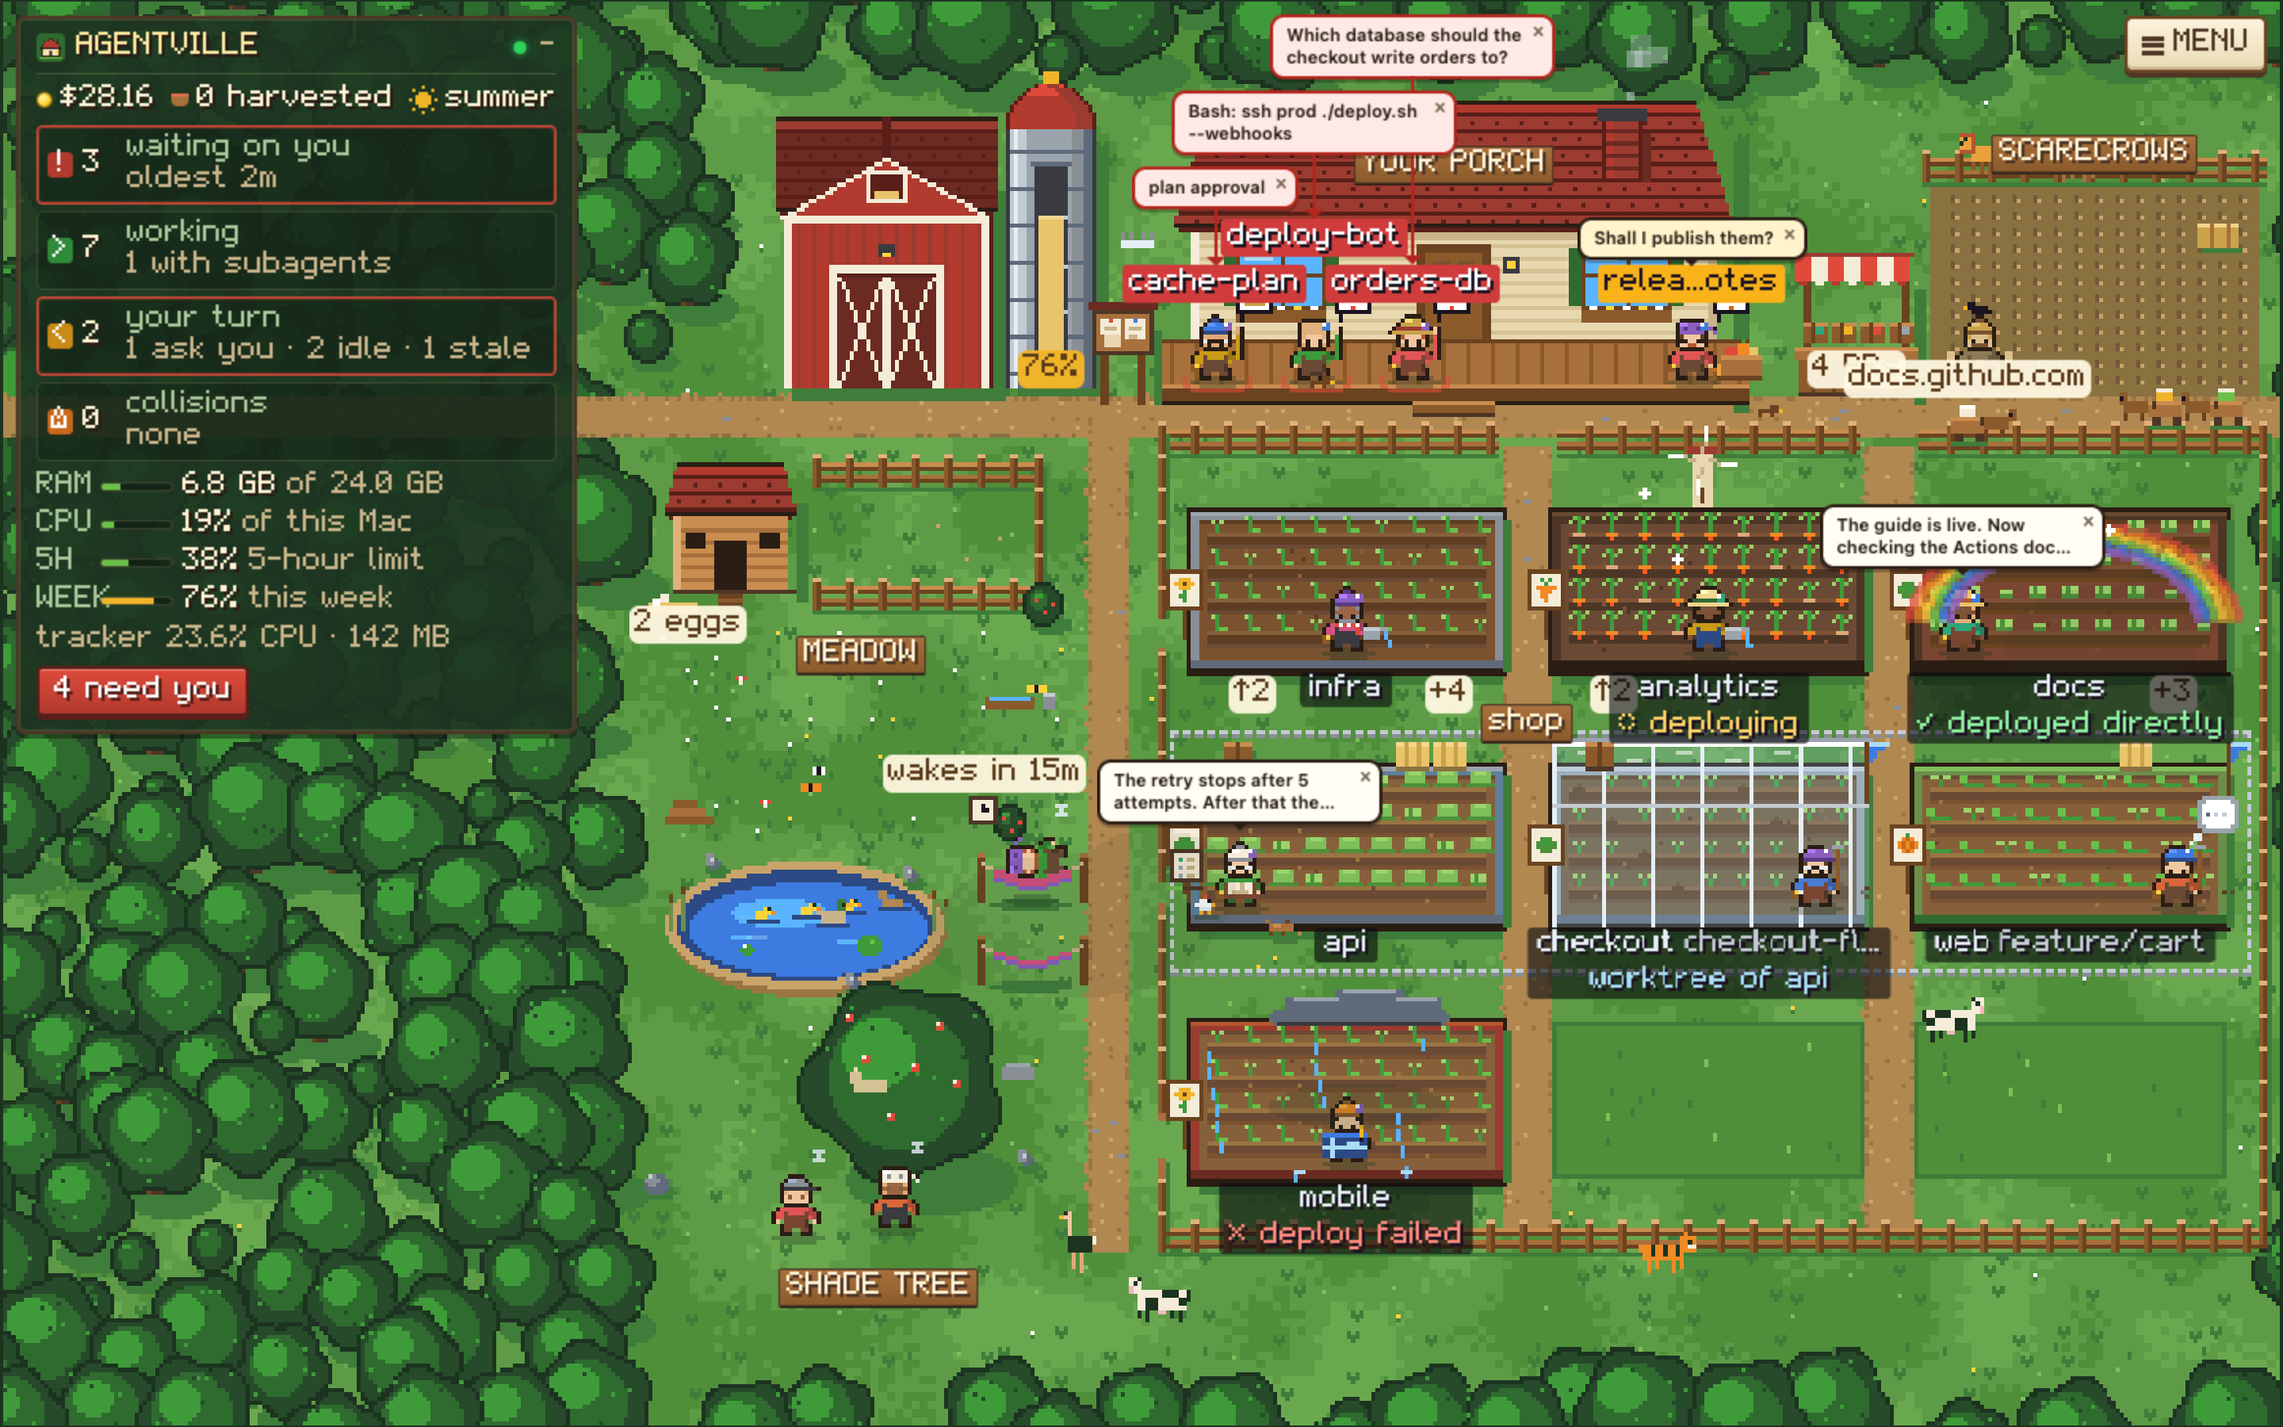
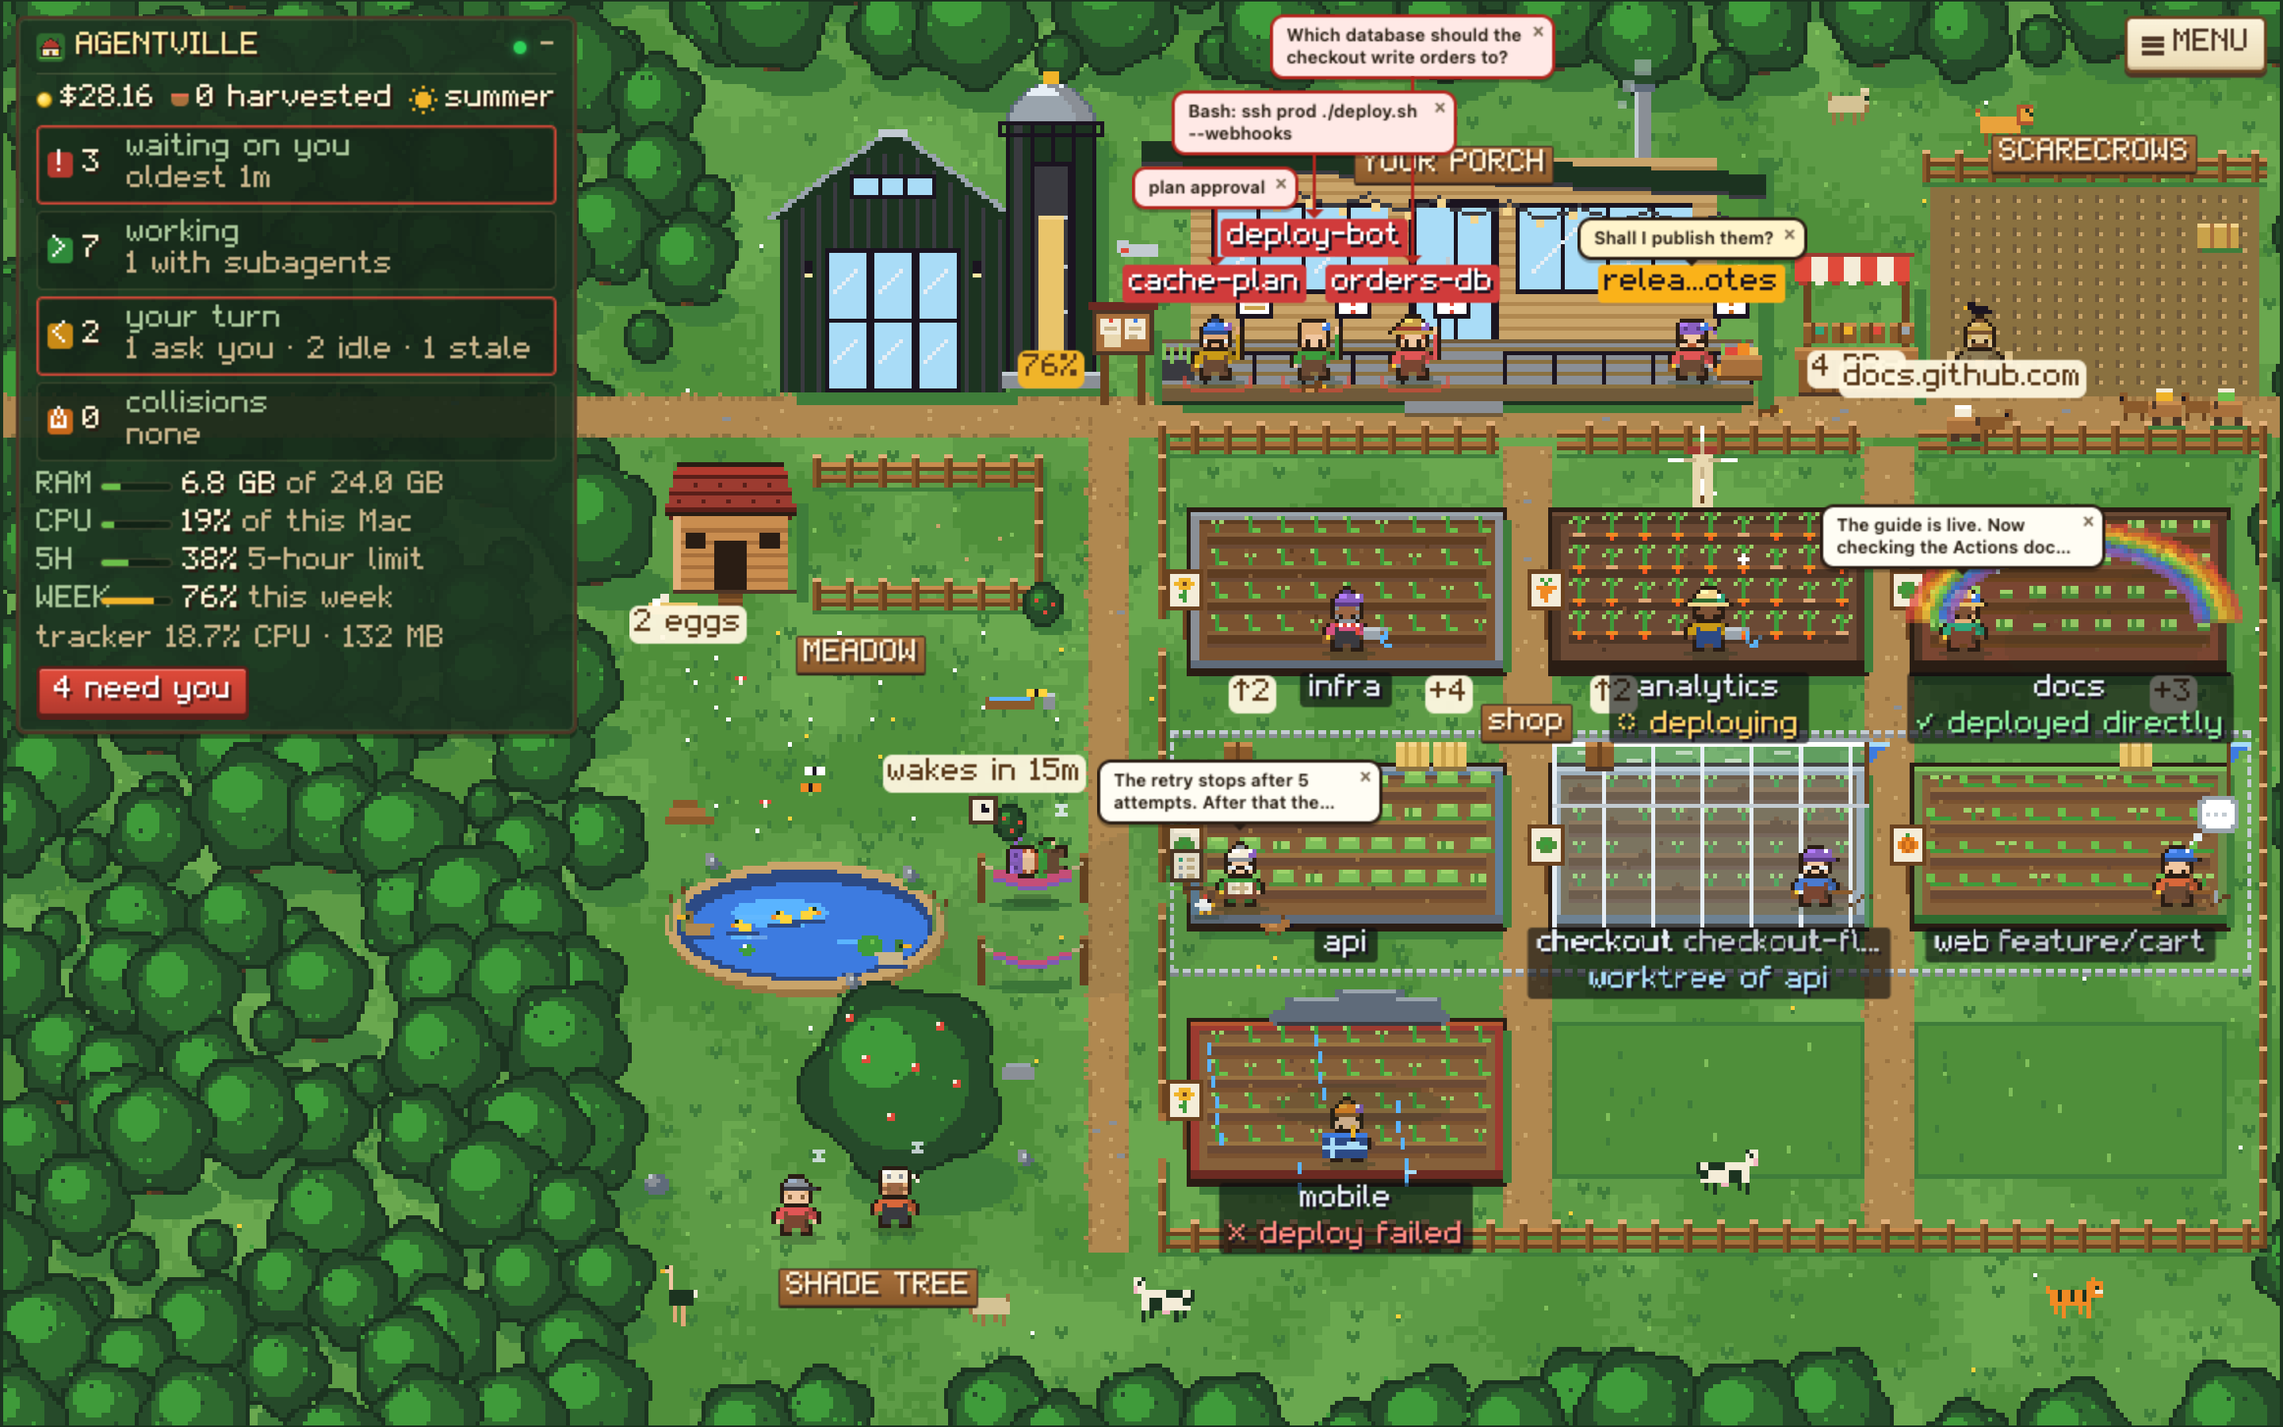
The farm is a modern farmstead: a black barn with a glass door, a black steel silo, a timber house with glass walls and a deck for your porch
- The barn: black board-and-batten under a metal roof, a clerestory window, a six-pane glass door
  in a steel frame (new farmers still walk out of it) with a wall light either side.
- The silo: a matte black tower under a pale metal dome, with a catwalk and a concrete plinth. Its
  gauge window and the lamp on top are where they were, so the week's grain and the warning lamp
  draw as before (the second account's silo too).
- The farmhouse: timber under one sloping roof with a steel flue, glass walls over a timber skirt
  either side of a glass door, string lights along the eave, and a deck with a slim steel railing
  open at the steps; a planter of grasses at each end, clear of the six porch spots.
- At night the glass glows a pane at a time (the frames stay dark), with the wall lights and the
  bulbs. Lit panes stay above the heads of the farmers on the porch and at the barn door: the
  night paints them over whatever stands in front.

diff --git a/web/worlds/farm/world.js b/web/worlds/farm/world.js
@@ -305,56 +305,58 @@
     if (frost) for (let k = 0; k < 4; k++) f(x0 + 2, y0 + 3 + k * 8, 68, 1, '#f4f8fb'); // frost on bare soil
   }
   function hay(f, x, y) { f(x - 5, y - 4, 10, 6, '#c9a24a'); f(x - 5, y - 4, 10, 1, '#f4d58d'); f(x - 2, y - 4, 1, 6, '#a8703c'); f(x + 2, y - 4, 1, 6, '#a8703c'); f(x - 4, y + 2, 10, 1, '#3f7d3a'); }
-  /** The barn: a red front gable with white trim, its roof behind, a big door with a white X. */
+  /** The barn: black board-and-batten under a metal roof, a clerestory window, a six-pane glass door with a light either side. */
   function barn(f, X, Y, S) {
-    const W2 = 52, red = '#b23a2e', plank = '#9c3b30', trim = '#f4ecd8';
-    f(X + W2, Y + 18, 4, 50, S.shadow); f(X + 3, Y + 66, W2, 3, S.shadow); // shadow
-    shingles(f, X - 1, Y, W2 + 2, 22, 0, ['#2a1d14', '#5a1f19', '#6b2a22', '#9c3b30']); // the roof going back
-    f(X + 25, Y, 2, 22, '#5a1f19');
-    for (let j = 0; j <= 14; j++) { const half = Math.round((j * 25) / 14), y = Y + 10 + j; f(X + 26 - half, y, half * 2, 1, red); f(X + 25 - half, y, 2, 1, trim); f(X + 25 + half, y, 2, 1, trim); } // the gable
-    f(X + 1, Y + 24, W2 - 2, 42, red);
-    for (let x = X + 4; x < X + W2 - 2; x += 4) f(x, Y + 26, 1, 40, plank);
-    f(X + 1, Y + 24, W2 - 2, 2, trim); f(X + 1, Y + 24, 2, 42, trim); f(X + W2 - 3, Y + 24, 2, 42, trim); f(X + W2 - 1, Y + 24, 1, 42, '#5a1f19');
-    f(X + 21, Y + 13, 10, 8, trim); f(X + 22, Y + 14, 8, 6, '#5a1f19'); f(X + 23, Y + 18, 6, 2, '#e9c46a'); // the hay loft
-    const dx = X + 14, dy = Y + 38;
-    f(dx - 2, dy - 2, 28, 30, trim); f(dx, dy, 24, 28, '#6b2a22');
-    for (const lx of [dx, dx + 12]) for (let t = 0; t < 28; t++) { const k = Math.round((t * 11) / 27); f(lx + k, dy + t, 1, 1, trim); f(lx + 11 - k, dy + t, 1, 1, trim); } // the X braces
-    f(dx + 11, dy, 2, 28, trim); f(dx, dy, 24, 1, '#5a1f19');
-    f(X + 24, Y + 31, 4, 3, '#3a3a40'); f(X + 25, Y + 33, 2, 1, '#ffd43b'); // the lamp
-    if (S.snow) { f(X - 1, Y, W2 + 2, 3, '#ffffff'); for (let j = 0; j <= 14; j += 2) f(X + 24 - Math.round((j * 25) / 14), Y + 9 + j, 3, 1, '#ffffff'); }
+    const cx = X + 27, black = '#26262b', batten = '#34343b', glass = '#a9cde6', steel = '#121215', h = y => 1 + Math.round(((y - Y - 4) * 27) / 20);
+    f(cx + 29, Y + 22, 4, 46, S.shadow); f(cx - 23, Y + 67, 54, 3, S.shadow); // shadow
+    for (let y = Y + 3; y <= Y + 24; y++) { const hh = h(Math.max(Y + 4, y)); f(cx - hh - 2, y, hh * 2 + 5, 1, y < Y + 5 ? '#c3cbd2' : '#9aa1a9'); } // the metal roof's edge
+    for (let y = Y + 5; y <= Y + 24; y++) { const hh = h(y); f(cx - hh, y, hh * 2 + 1, 1, black); }
+    f(cx - 27, Y + 25, 55, 42, black); for (let x = cx - 26; x < cx + 28; x += 4) f(x, Y + 25, 1, 42, batten);
+    for (let y = Y + 9; y <= Y + 24; y++) { const hh = h(y) - 2; for (let x = cx - 26; x < cx + 28; x += 4) if (Math.abs(x - cx) < hh) f(x, y, 1, 1, batten); }
+    f(cx - 10, Y + 14, 21, 6, steel); f(cx - 9, Y + 15, 19, 4, glass); f(cx - 3, Y + 15, 1, 4, steel); f(cx + 3, Y + 15, 1, 4, steel); // the clerestory
+    f(cx - 16, Y + 32, 33, 35, steel); // the glass door: six panes in a steel frame
+    for (let i = 0; i < 3; i++) for (let j = 0; j < 2; j++) { const x = cx - 15 + i * 11, y = Y + 33 + j * 17; f(x, y, 9, 16, glass); for (let t = 0; t < 6; t++) f(x + 1 + t, y + 9 - t, 1, 1, '#d6ecf8'); }
+    for (const sx of [cx - 21, cx + 20]) { f(sx, Y + 35, 2, 3, steel); f(sx, Y + 38, 2, 1, '#ffe6a6'); } // the wall lights
+    if (S.snow) { for (let y = Y + 3; y <= Y + 24; y++) { const hh = h(Math.max(Y + 4, y)); f(cx - hh - 2, y, 3, 1, '#ffffff'); f(cx + hh, y, 3, 1, '#ffffff'); } f(cx - 2, Y + 2, 5, 2, '#ffffff'); }
   }
-  /** The silo: a metal cylinder with a red dome; the grain gauge in its front is drawn every frame. */
+  /** The silo: a matte black tower under a metal dome, with a catwalk; the grain gauge in its window is drawn every frame. */
   function silo(f, X, Y, S) {
     f(X + 20, Y + 16, 4, 58, S.shadow); f(X + 2, Y + 74, 20, 2, S.shadow);
-    f(X - 1, Y + 10, 22, 64, '#3a3a40'); f(X, Y + 10, 20, 64, '#9aa4ad'); f(X, Y + 10, 4, 64, '#c3cbd2'); f(X + 1, Y + 10, 1, 64, '#e6eef5'); f(X + 15, Y + 10, 5, 64, '#8a8f96'); f(X + 18, Y + 10, 2, 64, '#5f6b7a');
-    for (let y = Y + 16; y < Y + 72; y += 9) f(X, y, 20, 1, '#5f6b7a');
-    for (let j = 0; j < 11; j++) { const half = Math.round(10 * Math.sqrt(1 - ((10 - j) / 10.5) ** 2)); f(X + 10 - half - 1, Y + j, half * 2 + 2, 1, '#5a1f19'); f(X + 10 - half, Y + j, half * 2, 1, j < 3 ? '#e04a3a' : '#b23a2e'); f(X + 10 + half - 4, Y + j, Math.min(4, half), 1, '#9c3b30'); }
-    if (S.snow) f(X + 3, Y, 14, 3, '#ffffff');
-    f(X + 6, Y + 20, 8, 48, '#3a3a40'); f(X + 5, Y + 19, 10, 1, '#5f6b7a'); // the gauge's window
-    f(X + 2, Y + 70, 16, 4, '#5f6b7a');
+    for (let j = 0; j < 11; j++) { const half = Math.round(10 * Math.sqrt(1 - ((10 - j) / 10.5) ** 2)); f(X + 10 - half - 1, Y + j, half * 2 + 2, 1, '#5f6b7a'); f(X + 10 - half, Y + j, half * 2, 1, j < 3 ? '#e6eef5' : '#aab2ba'); f(X + 10 + half - 4, Y + j, Math.min(4, half), 1, '#8a939c'); }
+    f(X - 1, Y + 10, 22, 64, '#121215'); f(X, Y + 10, 20, 64, '#26262b'); f(X + 1, Y + 10, 2, 64, '#3a3a42');
+    for (let x = X + 5; x < X + 20; x += 5) f(x, Y + 10, 1, 64, '#1d1d21');
+    f(X - 3, Y + 9, 26, 1, '#121215'); f(X - 3, Y + 12, 26, 1, '#121215'); f(X - 3, Y + 9, 1, 4, '#121215'); f(X + 22, Y + 9, 1, 4, '#121215'); // the catwalk
+    f(X + 5, Y + 19, 10, 50, '#121215'); f(X + 6, Y + 20, 8, 48, '#3a3f45'); // the gauge's window
+    f(X - 2, Y + 70, 24, 4, '#8d8f92'); f(X - 2, Y + 70, 24, 1, '#b9bbc0'); // its plinth
+    if (S.snow) { f(X + 3, Y, 14, 3, '#ffffff'); f(X - 3, Y + 8, 26, 1, '#ffffff'); }
   }
-  /** The farmhouse, top middle: a shingled roof, cream walls, lit windows, the porch in front. */
+  /** The string of lights under the farmhouse's eave: how low its wire hangs at x, sagging between hooks and following the roof. */
+  const eaveWire = (X, Y, W2, x) => Y + 20 + Math.round(3 * Math.sin((((x - X + 4) % 17) / 17) * Math.PI)) + Math.round(((x - X) * 8) / (W2 + 16));
+  /** Where each bulb hangs, just under the wire (drawn, and lit at night). */
+  const eaveBulbs = (X, Y, W2) => Array.from({ length: Math.ceil(W2 / 8) }, (_, i) => [X + i * 8, eaveWire(X, Y, W2, X + i * 8) + 1]);
+  /** The farmhouse, top middle: timber under one sloping roof, glass walls and a glass door, string lights, the deck (your porch) in front. */
   function house(f, X, Y, S, PORCH_Y) {
-    const W2 = 136, wallY = Y + 32;
-    f(X + W2, Y + 10, 4, PORCH_Y - Y - 2, S.shadow); f(X + 2, PORCH_Y + 4, W2, 2, S.shadow); // shadow
-    shingles(f, X, Y, W2, 30, 9, ['#2a1d14', '#5a1f19', '#9c3b30', '#b23a2e']);
-    f(X + 104, Y + 4, 10, 16, '#5a1f19'); f(X + 105, Y + 4, 8, 15, '#9c3b30'); f(X + 105, Y + 4, 2, 15, '#b23a2e'); for (let y = Y + 7; y < Y + 18; y += 3) f(X + 105, y, 8, 1, '#6b2a22'); f(X + 103, Y + 2, 12, 3, '#3a3a40'); f(X + 114, Y + 8, 2, 12, '#6b2a22'); // the chimney
-    if (S.snow) for (let j = 0; j < 8; j++) { const d = Math.round(((29 - j) * 9) / 29); f(X + d, Y + j, W2 - 2 * d, 1, j < 6 ? '#ffffff' : '#e6eef5'); }
-    f(X + 4, wallY, W2 - 8, PORCH_Y - wallY - 10, '#e8d8b0');
-    for (let y = wallY + 3; y < PORCH_Y - 10; y += 3) f(X + 4, y, W2 - 8, 1, '#d4c294');
-    f(X + 4, wallY, W2 - 8, 2, '#c9b48a'); f(X + 4, wallY, 2, PORCH_Y - wallY - 10, '#f4ecd8'); f(X + W2 - 6, wallY, 2, PORCH_Y - wallY - 10, '#c9b48a');
-    for (const wx of [X + 16, X + 100]) { // windows, shutters, a flower box
-      f(wx - 4, wallY + 4, 3, 14, '#2f6b2f'); f(wx + 21, wallY + 4, 3, 14, '#2f6b2f');
-      f(wx - 1, wallY + 3, 22, 16, '#6b4320'); f(wx, wallY + 4, 20, 14, '#5ab4ff'); f(wx + 1, wallY + 5, 7, 2, '#a9dcf7'); f(wx + 10, wallY + 4, 1, 14, '#6b4320'); f(wx, wallY + 10, 20, 1, '#6b4320');
-      f(wx - 1, wallY + 19, 22, 3, '#8b5a2b'); for (let i = 0; i < 5; i++) f(wx + 1 + i * 4, wallY + 18, 2, 1, S.flowers[i % Math.max(1, S.flowers.length)] ?? '#6b8f4a');
+    const W2 = 136, wood = '#c8a271', woodD = '#b08a5a', frame = '#1d1d21', glass = '#a9cde6';
+    f(X + W2 + 6, Y + 14, 4, PORCH_Y - Y - 6, S.shadow); f(X + 2, PORCH_Y + 6, W2, 2, S.shadow); // shadow
+    f(X + 112, Y - 2, 4, 18, '#8a8f96'); f(X + 111, Y - 4, 6, 2, '#5f6b7a'); f(X + 112, Y - 2, 1, 18, '#c3cbd2'); // the steel flue
+    if (S.snow) f(X + 111, Y - 5, 6, 1, '#ffffff');
+    f(X + 4, Y + 14, W2 - 8, PORCH_Y - 10 - (Y + 14), wood); for (let y = Y + 16; y < PORCH_Y - 10; y += 3) f(X + 4, y, W2 - 8, 1, woodD);
+    for (let x = X - 8; x < X + W2 + 8; x++) { const top = Y + 10 + Math.round(((x - X + 8) * 8) / (W2 + 16)); f(x, top, 1, 5, '#2a2a2e'); f(x, top + 5, 1, 1, '#3f3f45'); if (S.snow) f(x, top - 2, 1, 2, '#ffffff'); } // one sloping roof
+    for (const gx of [X + 10, X + 84]) { // the glass walls, over a timber skirt (lit at night above the heads of farmers on the porch)
+      const gy = Y + 26, gh = 20;
+      f(gx - 1, gy - 1, 43, gh + 2, frame); f(gx, gy, 42, gh, glass);
+      for (let x = gx + 10; x < gx + 42; x += 11) f(x, gy, 1, gh, frame);
+      for (let t = 0; t < 12; t++) { f(gx + 3 + t, gy + 15 - t, 1, 1, '#d6ecf8'); f(gx + 24 + t, gy + 15 - t, 1, 1, '#d6ecf8'); }
     }
-    f(X + 59, wallY + 3, 18, PORCH_Y - wallY - 13, '#6b4320'); f(X + 61, wallY + 5, 14, PORCH_Y - wallY - 15, '#8b5a2b'); f(X + 63, wallY + 7, 4, 6, '#7a5230'); f(X + 69, wallY + 7, 4, 6, '#7a5230'); f(X + 72, wallY + 14, 2, 2, '#f0b429'); // the door
-    f(X + 80, wallY + 6, 4, 4, '#3a3a40'); f(X + 81, wallY + 7, 2, 2, '#ffd43b'); // the porch lamp
-    // the porch: planks seen from above, its front edge, the steps down to the lane
-    f(X - 4, PORCH_Y - 10, W2 + 8, 12, '#a8703c'); f(X - 4, PORCH_Y - 10, W2 + 8, 1, '#6b4320');
-    for (let x = X - 1; x < X + W2 + 4; x += 6) f(x, PORCH_Y - 9, 1, 11, '#8b5a2b');
-    f(X - 4, PORCH_Y + 1, W2 + 8, 1, '#c98d4f'); f(X - 4, PORCH_Y + 2, W2 + 8, 3, '#6b4320'); f(X - 4, PORCH_Y + 5, W2 + 8, 1, '#2a1d14');
-    f(X + 58, PORCH_Y + 5, 20, 3, '#8b5a2b'); f(X + 58, PORCH_Y + 5, 20, 1, '#c98d4f'); f(X + 58, PORCH_Y + 8, 20, 1, '#4e3626');
+    f(X + 57, Y + 24, 22, PORCH_Y - 10 - Y - 24, frame); f(X + 59, Y + 26, 18, PORCH_Y - 10 - Y - 26, glass); f(X + 68, Y + 26, 1, PORCH_Y - 10 - Y - 26, frame); f(X + 66, Y + 38, 1, 6, '#c3cbd2'); // the glass door
+    for (let x = X - 4; x < X + W2 + 4; x++) f(x, eaveWire(X, Y, W2, x), 1, 1, '#3f3f45'); // the string
+    for (const [bx, by] of eaveBulbs(X, Y, W2)) f(bx, by, 2, 2, '#ffe08a');
+    // the deck: wide boards, a slim steel railing open at the steps, a planter of grasses at each end
+    f(X - 5, PORCH_Y - 10, W2 + 10, 12, '#8d7e6e'); for (let y = PORCH_Y - 8; y < PORCH_Y + 2; y += 3) f(X - 5, y, W2 + 10, 1, '#776a5c'); f(X - 5, PORCH_Y - 10, W2 + 10, 1, '#5e5348');
+    f(X - 5, PORCH_Y + 2, W2 + 10, 3, '#5e5348'); f(X - 5, PORCH_Y + 5, W2 + 10, 1, '#2a2a2e');
+    for (const [a, b] of [[X - 5, X + 56], [X + 80, X + W2 + 5]]) { f(a, PORCH_Y - 7, b - a, 1, frame); for (let x = a; x < b; x += 12) f(x, PORCH_Y - 7, 1, 8, frame); f(b - 1, PORCH_Y - 7, 1, 8, frame); }
+    f(X + 56, PORCH_Y + 5, 24, 3, '#8d7e6e'); f(X + 56, PORCH_Y + 8, 24, 1, '#5e5348'); // the steps
+    for (const px of [X - 4, X + W2 - 4]) { f(px, PORCH_Y - 5, 9, 5, '#3f3f45'); for (let i = 0; i < 4; i++) f(px + 1 + i * 2, PORCH_Y - 9 + (i % 2), 1, 4, S.snow ? '#e6eef5' : '#7fbf5a'); }
   }
   /** The henhouse and its run: a little coop, a ramp, a fence; hens and eggs are drawn every frame. */
   function henhouse(f, X, Y, S) {
@@ -1135,8 +1137,19 @@
         PXG.ctx.globalAlpha = 1;
       },
       /** Lights that glow at night: [x, y, reach, the lit shape]. */
+      /** At night: the barn's glass door and the house's glass glow from inside, a pane at a time (their frames stay dark), with the barn's wall lights and the bulbs under the eave. */
       lights() {
-        return [[62, 54, 11, [61, 47, 2, 1]], [158, 56, 16, [148, 46, 20, 14, true]], [242, 56, 16, [232, 46, 20, 14, true]], [213, 66, 20, [213, 49, 2, 2]]];
+        const pane = ([x, y, w, h]) => [x + (w >> 1), y + (h >> 1), 0, [x, y, w, h]];
+        // lit panes stay above the heads of the farmers on the porch and at the barn door: the night paints them over whatever stands in front
+        const barnPanes = [48, 59, 70].map(x => [x, 47, 9, 16]); // the door's upper row; its lower row glows from the light around it
+        const clerestory = [[54, 29, 6, 4], [61, 29, 5, 4], [67, 29, 6, 4]];
+        const glass = [[142, 10], [153, 10], [164, 10], [175, 9], [216, 10], [227, 10], [238, 10], [249, 9]].map(([x, w]) => [x, 36, w, 20]).concat([[191, 36, 9, 18], [201, 36, 8, 18]]);
+        return [
+          [63, 62, 22, null], [63, 31, 9, null], [163, 52, 22, null], [200, 52, 14, null], [237, 52, 22, null],
+          ...[...barnPanes, ...clerestory, ...glass].map(pane),
+          [43, 53, 8, [42, 52, 2, 1]], [84, 53, 8, [83, 52, 2, 1]],
+          ...eaveBulbs(132, 10, 136).map(([x, y]) => [x + 1, y + 1, 3, [x, y, 2, 2]]),
+        ];
       },
       /** By day, butterflies and birds, and cloud shadows drift over the farm; at night, fireflies over the yard. */
       weather(sky) {

diff --git a/README.md b/README.md
@@ -797,7 +797,8 @@ game's.
 ![The farm at night](docs/farm-night.png)
 
 **The layout.** Along the top are the barn, the silo and your farmhouse, with **your porch** in
-front of it. Below them are the fields, one raised bed per repo, in a fenced grid that grows to 18
+front of it: a modern farmstead, with a black barn with a glass door, a black steel silo and a
+timber house with glass walls, its deck your porch. At night their glass glows from inside. Below them are the fields, one raised bed per repo, in a fenced grid that grows to 18
 beds. While you look, a field keeps its bed: a new repo takes a free one (a worktree right after
 its repo, a project's repo beside the others), and nothing else moves. A repo that goes away
 leaves its bed empty, held for it for a day. An empty bed is fallow ground, a patch of darker
